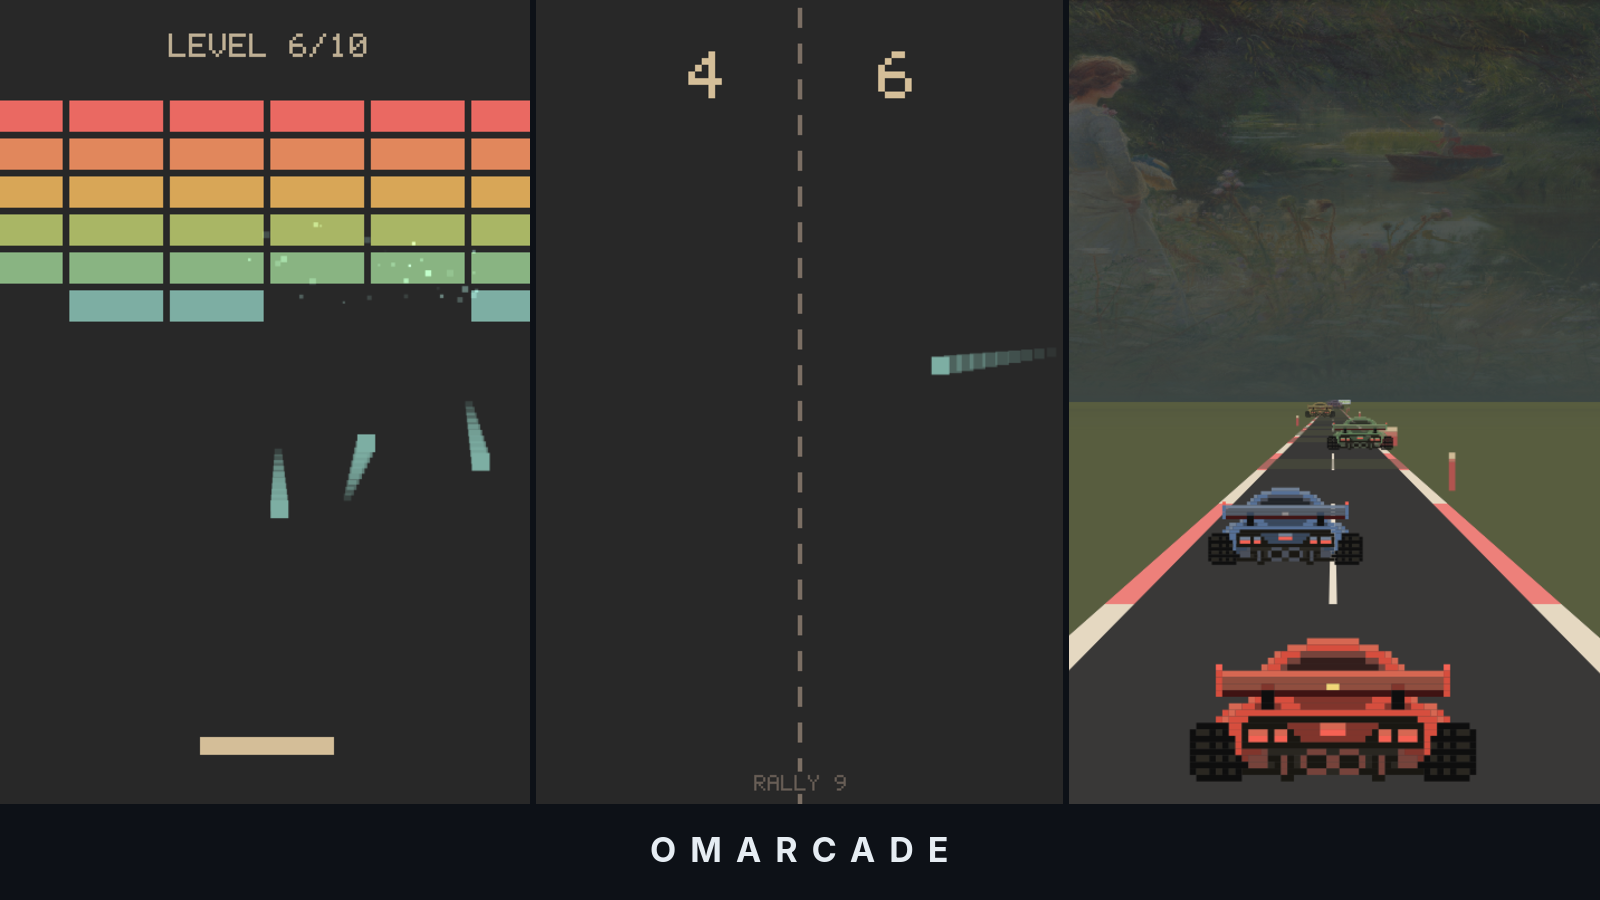
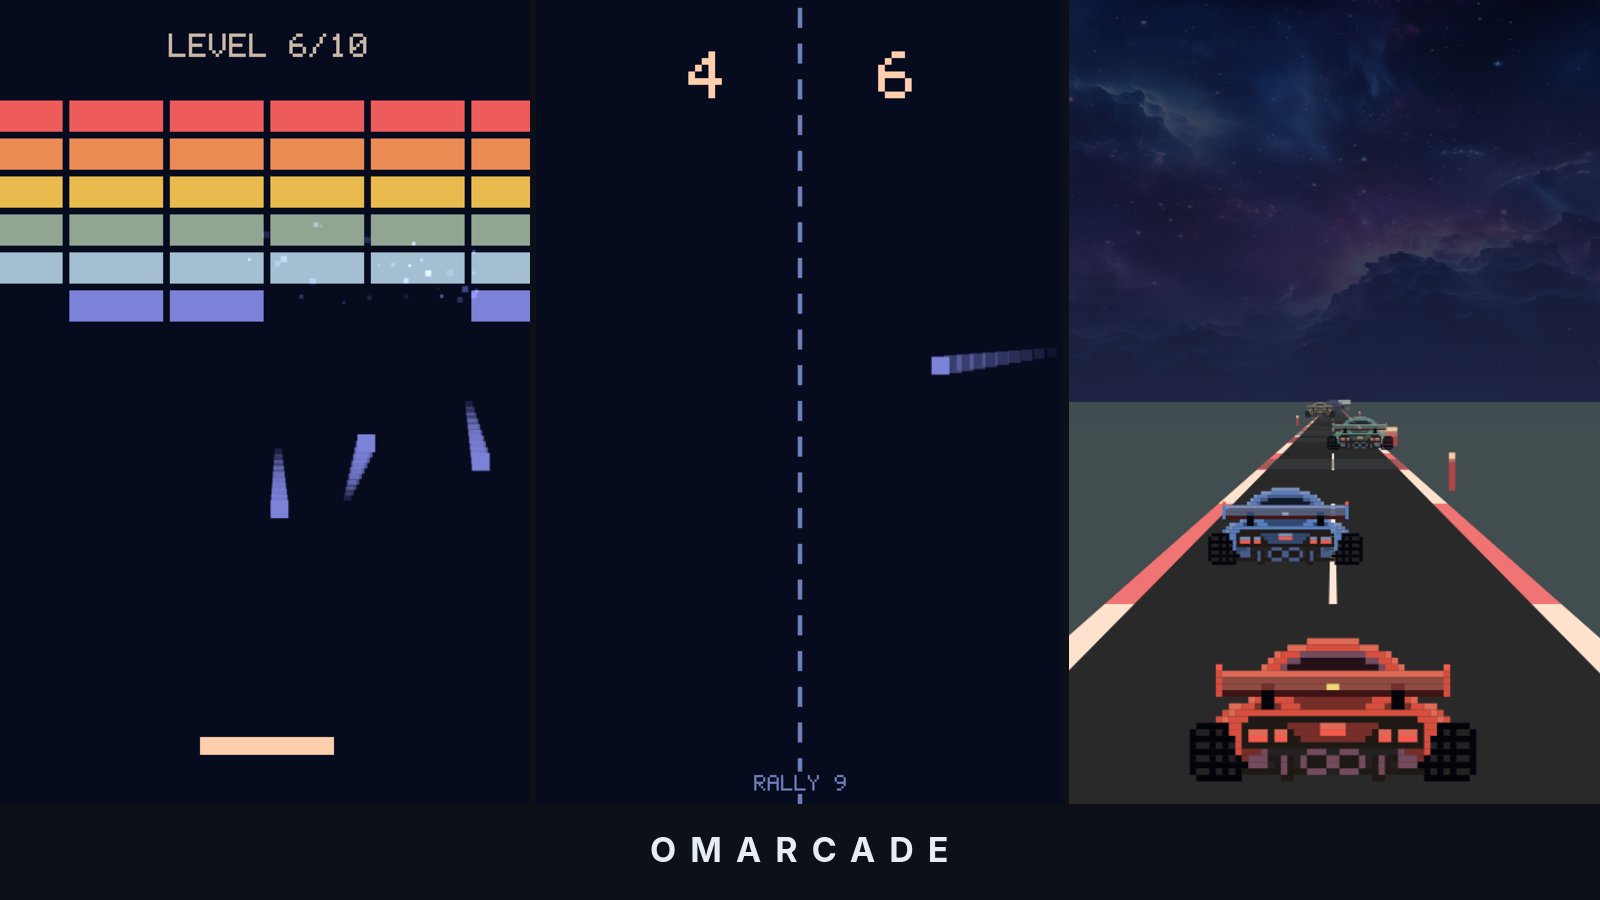
Pin the card's sky, and fix an uninstall that removes its own uninstaller
The README said to run `omarchy plugin remove` and then
`./packaging/install.sh --uninstall`. In that order the second command
cannot run: the uninstaller lives inside the directory the first one
deletes, so a user following the instructions is left with three
binaries in ~/.local/bin and nothing to remove them. Tested, not
assumed. It is now one command, the full path, and it takes out the
games, the launchers, the icon and the cabinet together.

The uninstall also claimed the bar needed a shell restart. It does not —
Omarchy watches the plugins directory and drops the widget on its own,
which we measured earlier by removing the plugin on a live bar. Telling
someone to restart their whole shell to finish an uninstall is a bad
last impression as well as untrue.

And the marketplace card's sky is pinned to ethereal/1-cosmic rather
than inheriting whoever regenerated it. The cabinet art should follow
the local theme — it is shown to the person whose desktop it is — but
the card is shown to strangers. On Brian's Victorian theme it rendered
an oil painting of a woman by a river behind the cars: honestly how the
game looks on his machine, and on a card it reads as a compositing
mistake. Chosen by rendering cosmic against meadow and looking at both;
meadow's tree silhouette had the same pasted-photo problem.

Pinning the wallpaper pins the theme too, so all three panels now render
in one palette and read as a suite rather than three screenshots. 351 KB
to 233 KB.
[…]

diff --git a/README.md b/README.md
@@ -49,12 +49,21 @@ a desktop entry per game so they show up in your app launcher.
 ### Removing it
 
 ```bash
-omarchy plugin remove ridgetopai.omarcade   # the cabinet
-./packaging/install.sh --uninstall          # the games
+~/.config/omarchy/plugins/ridgetopai.omarcade/packaging/install.sh --uninstall
 ```
 
-Either way your high scores are left alone, in
-`~/.local/state/omarcade/`. Delete that directory if you want them gone too.
+That takes out the games, their launcher entries, the icon and the
+cabinet — everything Omarcade installed. Run it before
+`omarchy plugin remove`, not after: the uninstaller lives *inside* the
+plugin directory, so removing the plugin first leaves three binaries in
+`~/.local/bin` with nothing left to remove them.
+
+If you installed by cloning the repo yourself, run
+`./packaging/install.sh --uninstall` from wherever you cloned it.
+
+Your high scores are deliberately left alone, in
+`~/.local/state/omarcade/`. Delete that directory if you want them gone
+too.
 
 ### Hyprland window rules (recommended)
 
